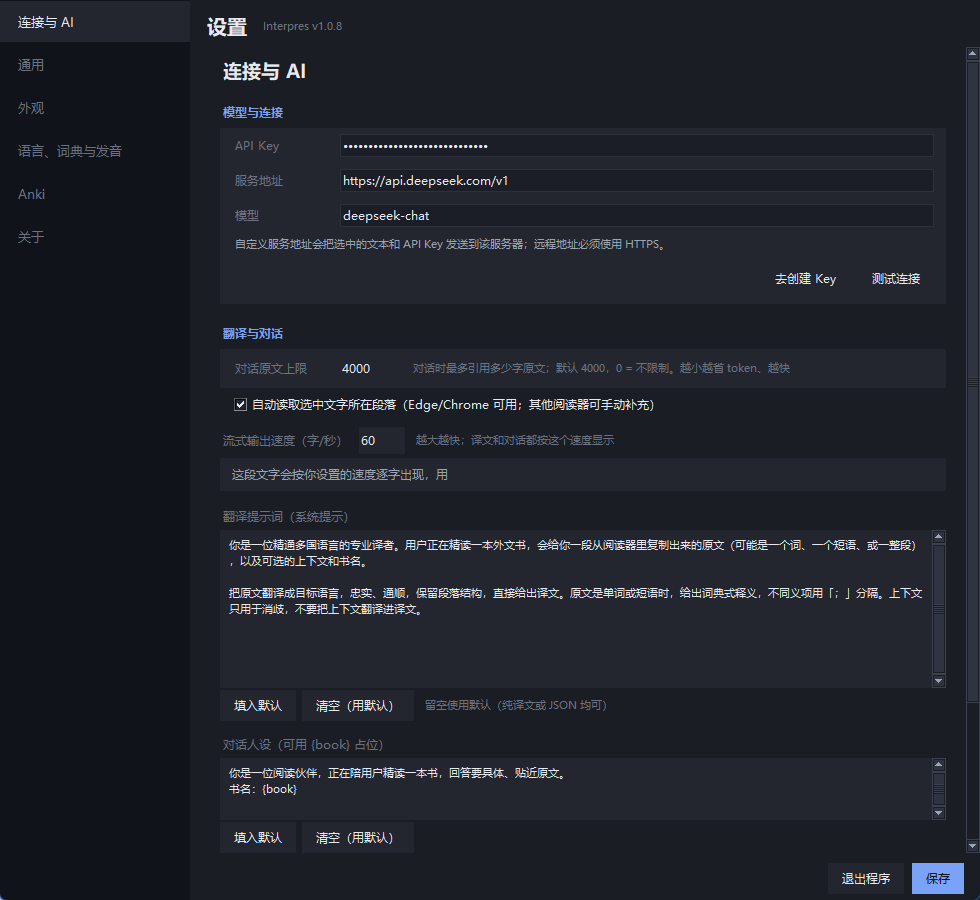
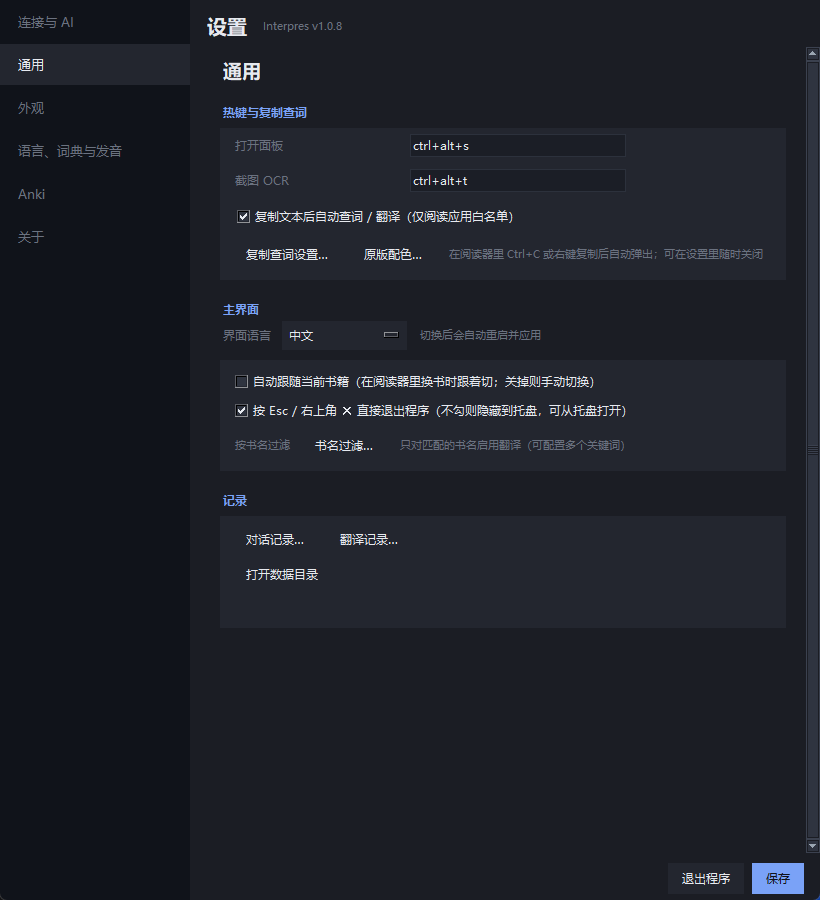
Refresh README and screenshots for 1.0.8
Document multi-dictionary formats, clipboard/OCR entry, lookup history, WebView2 requirements and current limitations; replace the panel/settings screenshots with the current UI.

diff --git a/README.md b/README.md
@@ -10,10 +10,9 @@ English | [中文说明](docs/README.zh-CN.md)
 
 - **Screenshot OCR** — press `Ctrl+Alt+T`, drag over text in an image or scanned PDF, and the recognized text goes through the same dictionary/translation path. Uses the local Windows OCR engine; screenshots are not uploaded.
 - **Clipboard lookup & translation** — copy text in a reader (`Ctrl+C` or right-click **Copy**) and Interpres decides between a local dictionary lookup and an AI translation. No floating selection button. Works in Chrome, Edge, Firefox, Calibre, SumatraPDF, Acrobat, Okular and Thorium; the reading-app whitelist and automatic trigger can be changed or switched off in Settings.
-- **Local MDX/MDD dictionaries** — bring your own Longman, Oxford, etc. Lookup is offline; fuzzy search handles accents and typos. The AI only fills context that the dictionary cannot.
-- **AI chat with context** — ask questions about the passage or the book; in
-  Edge/Chrome the paragraph around the selection is read automatically (can be
-  turned off in settings), and other readers can paste context manually.
+- **Local dictionaries** — MDX/MDD, unencrypted MDX 1.2, StarDict, DSL, Dictd and XDXF. Add several dictionaries per language, order them, mark a default, mute individual dictionaries or a whole group, and switch sources from the result bar. Lookup is offline; the AI only fills context the dictionary cannot.
+- **AI chat with context** — ask questions about a phrase or the current book; paste the paragraph manually to give the model context.
+- **Lookup history** — the clock icon in the Query tab keeps recent lookups with source preference, stars, language/book filters, stats and a configurable retention limit.
 - **Per-language vocabulary books** — words are grouped by language, and you can create your own word books (e.g. “English · IELTS”). Each book maps to its own Anki deck.
 - **Anki sync** — English uses the [Dict2Anki](https://github.com/ninja33/anki-dict-helper) note type by default; other languages use the bundled `Interpres` note type with structured senses, examples and audio.
 - **Languages are data, not code** — add any language (Italian, Japanese, Russian, …): code, display name, voice, deck. Dictionaries attach per language.
@@ -24,7 +23,8 @@ English | [中文说明](docs/README.zh-CN.md)
   the top/bottom edge to restore automatic height. Theme changes apply after a
   restart.
 - **History** — translation and conversation history per book, searchable and
-  exportable to Markdown, TSV or CSV.
+  exportable to Markdown, TSV or CSV; recent dictionary lookups have their own
+  clock-icon history in the Query tab.
 - **Vocabulary cards** — double-click a saved word to open its dictionary card
   (or the fields saved with it when no dictionary is configured). The word table
   can be searched by word or meaning and sorted by any column; the choice is
@@ -55,9 +55,11 @@ What you *do* get is the source, the build script, and a local-first workflow yo
 ## Requirements
 
 - Windows 10/11 (64-bit)
+- [Microsoft Edge WebView2 Runtime](https://developer.microsoft.com/microsoft-edge/webview2/) for the original dictionary layout (simple mode still works without it)
 - Your own DeepSeek API key (or any OpenAI-compatible endpoint)
 - Optional: [Anki](https://apps.ankiweb.net/) + [AnkiConnect](https://ankiweb.net/shared/info/2055492159) for card sync
-- Optional: MDX/MDD dictionaries (not bundled, see below)
+- Optional: MDX/MDD/StarDict/DSL/Dictd/XDXF dictionaries (not bundled, see below)
+- Optional: Windows OCR language feature for screenshot OCR (English/Chinese/French are common; install the language in Windows Settings)
 
 ## Quick start
 
@@ -65,6 +67,7 @@ What you *do* get is the source, the build script, and a local-first workflow yo
 2. Run `Interpres.exe` from the extracted folder. It is portable and keeps its data in your user profile; nothing is installed system-wide.
 3. Press `Ctrl+Alt+S` to open the panel, then click the gear (top right) to open settings; paste your API key and click **Test connection**.
 4. Copy a word or passage in a reader (`Ctrl+C` or right-click **Copy**).
+5. For an image or scanned PDF, press `Ctrl+Alt+T` and drag over the text.
 
 What changed in each version: see [CHANGELOG.md](CHANGELOG.md) or the Releases page.
 
@@ -126,13 +129,18 @@ are left untouched, and the dialog warns first.
 
 ## Dictionaries
 
-The app does not ship dictionaries. Put `.mdx`/`.mdd` files anywhere and add them in **Settings → Language & audio → Dictionary settings…**. The parser supports MDX 2.0; encrypted or MDX 1.2 files are not supported yet.
+The app does not ship dictionaries. Put dictionary files anywhere and add them in **Settings → Language & audio → Dictionary settings…**. Supported formats:
 
-The original-entry viewer keeps the dictionary's HTML and CSS, but removes
-dictionary-provided `<script>` tags, `on*` handlers, and `javascript:` links
-before rendering. Its own toolbar buttons are handled by the app's injected
-script; a dictionary that depends on custom JavaScript interactivity will look
-correct but not run its own scripts.
+- MDX/MDD 2.0
+- unencrypted MDX 1.2 (zlib and LZO blocks)
+- StarDict (`.ifo` / `.idx` / `.dict[.dz]`)
+- DSL (`.dsl`, `.dsl.dz`)
+- Dictd (`.index`)
+- XDXF (`.xdxf`, `.xdxf.dz`)
+
+Encrypted MDX files are not supported. A language can contain several dictionaries; the result bar lists every hit, and **Settings → Language & audio → Dictionary settings… → Groups** controls order, default, per-dictionary panel/popup visibility and whole-group mute. The Anki definition dictionary can be chosen separately per language.
+
+The original-entry viewer uses WebView2 and keeps the dictionary's own HTML/CSS/images/audio, but removes dictionary-provided `<script>` tags, `on*` handlers, and `javascript:` links before rendering. Its own toolbar buttons are handled by the app's injected script; a dictionary that depends on custom JavaScript interactivity will look correct but not run its own scripts.
 
 Dictionaries are copyrighted works; obtain and use them legally. Dictionary files are never sent anywhere — lookup is entirely local.
 
@@ -144,11 +152,17 @@ All settings and data live in `%USERPROFILE%\.reading-companion\`:
 
 ```
 config.json   settings (API key encrypted with Windows DPAPI)
-reading.db    vocabulary, conversations, translation cache
-app.log       logs (no selected text or document bodies)
+reading.db    vocabulary, conversations, translation cache, lookup history
+app.log       logs (no copied text, screenshots or document bodies)
 cache/        TTS audio cache
 exports/      CSV/TSV/Markdown exports
 ```
+
+Clipboard monitoring and screenshot OCR run locally. OCR screenshots are written
+to a temporary PNG only for the Windows OCR call, then deleted; recognized text
+is treated like copied text and is not uploaded by OCR itself. The clipboard
+trigger can be disabled in settings, and only whitelisted reading apps are
+monitored by default.
 
 Network access is limited to:
 
@@ -224,7 +238,7 @@ Some tests use a mock OpenAI/AnkiConnect server; Anki integration tests skip aut
 ```
 app.py                    entry point: Application shell, hotkeys, tray, main()
 app_panel.py              main-panel wiring: translate, ask, history windows
-app_flow.py               selection → bubble → details → dictionary flow
+app_flow.py               clipboard/OCR text → dictionary or translation flow
 app_media.py              save word, Anki push, pronunciation, term locking
 rc/service.py             Service (mixin composition): chat, history, status
 rc/service_base.py        annotated attributes shared by the service mixins
@@ -232,10 +246,16 @@ rc/service_translate.py   translation pipeline: chunking, cache, streaming
 rc/service_dict.py        dictionary lookup, morphology, entry HTML
 rc/service_vocab.py       vocabulary, languages, glossary
 rc/service_anki.py        Anki fields, templates, push
+rc/service_lookup_history.py  recent lookup records, stats and retention
 rc/service_common.py      chunking/cache helpers shared by the mixins
 rc/llm.py                 chat/translation client (streaming, JSON parsing)
 rc/rich.py                dictionary HTML → structured senses/examples
 rc/mdx.py                 pure-stdlib MDX/MDD reader
+rc/stardict.py            StarDict reader
+rc/dsl.py                 DSL / DSL.dz reader
+rc/dictd.py               Dictd reader
+rc/xdxf.py                XDXF / XDXF.dz reader
+rc/lzo.py                 LZO block decompressor for MDX 1.2
 rc/panel.py               main window shell: layout, books, scrolling, status
 rc/panel_translate.py     translate tab: streaming output, progress, errors
 rc/panel_dict.py          dictionary tab: lookup, senses, morphology, save
@@ -245,11 +265,23 @@ rc/vocab_panel.py         vocabulary tab shell: layout, search, refresh
 rc/vocab_table.py         word table: sorting, column widths, word cards
 rc/vocab_books.py         word-book list and book dialogs
 rc/vocab_actions.py       move/delete/export words, Anki sync
-rc/popup.py               selection popup shell: lifecycle, placement, wheel, resizing
-rc/popup_dict.py          dictionary card: senses, morphology, similar words
+rc/popup.py               popup shell: lifecycle, placement, wheel, resizing
+rc/popup_dict.py          dictionary card: senses, original view, inline WebView2
 rc/popup_chat.py          inline chat card: bubbles, input bar, streaming
 rc/popup_result.py        translation result card: terms, grammar, actions
 rc/popup_common.py        small popup helpers
+rc/dict_config.py         global dictionary library, groups, mute/default/Anki choice
+rc/dictmanager.py         dictionary loading, source selection, cache and idle release
+rc/dictionary.py          one dictionary: lookup, audio and raw entry
+rc/dict_forms.py          user word forms and conjugation tables
+rc/dict_view.py           original-entry HTML/CSS and CSP wrapper
+rc/dict_view_controller.py shared raw-word/URL helpers for panel and popup
+rc/webview_host.py        reusable WinForms WebView2 host
+rc/webview_window.py      standalone WebView2 entry window (legacy entry point)
+rc/clipboard_watch.py     whitelisted clipboard trigger
+rc/ocr.py                 Windows.Media.Ocr wrapper
+rc/ocr_picker.py          full-screen OCR region picker
+rc/lookup_history_ui.py   recent lookup window, filters, stars and stats
 rc/settings_ui.py         settings window shell: pages, tabs, shared widgets
 rc/settings_pages.py      settings window: one builder per page
 rc/settings_actions.py    settings window: save, test, dialogs, export
@@ -258,9 +290,7 @@ rc/config.py              settings file, DPAPI key storage, language table
 rc/server.py              loopback-only HTTP API (token, size limits)
 rc/netpolicy.py           endpoint validation: HTTPS or loopback only
 rc/capture.py             clipboard snapshot and selected-text capture
-rc/selection.py           mouse watcher for drag / double-click selection
-rc/dictionary.py          one MDX dictionary: lookup, audio, entry HTML
-rc/dictmanager.py         per-language dictionary registry and cache
+rc/selection.py           low-level foreground/selection helpers
 rc/anki.py                AnkiConnect client, note fields and templates
 rc/tts.py                 speech: SAPI, Edge or a custom command
 rc/theme.py               shared palette and font
@@ -268,17 +298,18 @@ rc/store.py               SQLite storage
 rc/i18n.py                zh/en display-layer translation
 # remaining dialog windows: book_settings, entry_settings, selection_settings,
 # dictionary_settings, dict_profiles, language_dialog, anki_card_settings,
-# wordbook_anki_settings, vocab_panel, translation_ui, chat_ui
+# wordbook_anki_settings, vocab_panel, translation_ui, chat_ui, user_lang_dialog
 ```
 
 ## Known limitations and rough edges
 
 - The code was generated by an AI agent and has not been reviewed by a professional developer. Treat it as an experimental personal project.
 - Testing was done on the author's own Windows machine and a handful of readers; other apps, DPI settings and Windows versions are not covered.
-- Text selection capture relies on clipboard simulation; some apps with unusual selection handling will not work.
+- Clipboard lookup only monitors the reading-app whitelist by default; copying from other apps does nothing. It can be disabled entirely in settings.
+- Screenshot OCR uses the Windows OCR language packs and currently captures the primary monitor region; recognition of handwriting, vertical text and very small/low-contrast text is imperfect.
+- The original dictionary layout needs the WebView2 Runtime; without it, the compact dictionary view still works.
+- Encrypted MDX files are not supported (unencrypted MDX 2.0 and 1.2 are).
 - The API key is encrypted with Windows DPAPI, so copying `config.json` to another machine or Windows user means the key has to be entered again (bookmarks and history copy fine).
-- Only one MDX dictionary per language is used for lookup; there is no merged multi-dictionary view.
-- MDX 1.2 and encrypted dictionaries are not supported.
 - Latin has no native TTS voice; the app falls back to Italian (Edge) or French (SAPI).
 - Edge TTS is an unofficial Microsoft endpoint and may change without notice.
 - Anki sync depends on AnkiConnect and a running Anki instance; there is no offline queue or retry.

diff --git a/docs/README.zh-CN.md b/docs/README.zh-CN.md
@@ -10,15 +10,17 @@
 
 - **复制查词/翻译**：在阅读器里复制文字（`Ctrl+C` 或右键复制），程序自动判断单词走词典、句子走翻译；不再有划词小按钮。支持 Chrome、Edge、Firefox、Calibre、SumatraPDF、Acrobat、Okular、Thorium；白名单和自动触发可在设置里关闭。
 - **截图 OCR**：按 `Ctrl+Alt+T` 框选图片或扫描版 PDF 里的文字，识别后走同样的查词/翻译流程；使用 Windows 本地 OCR，不上传截图。
-- **本地 MDX/MDD 词典**：自己准备朗文、牛津等词典；查词完全离线，模糊匹配能处理重音和拼写错误。AI 只补词典没有的上下文。
-- **结合上下文的 AI 对话**：可以问当前段落或整本书的问题；在 Edge/Chrome 里会自动读取选中文字所在段落（设置里可关），其他阅读器可以手动补充上下文。
+- **本地多词典**：支持 MDX/MDD、未加密 MDX 1.2、StarDict、DSL、Dictd、XDXF；每种语言可挂多本，来源栏并列命中的词典，可排序、设默认、单独静音或整组静音。
+- **原版排版**：面板和浮窗都可用 WebView2 显示词典自己的 HTML/CSS/图片/音频，浮窗内长词条可滚动。
+- **AI 对话**：可以围绕短语或当前书提问；需要段落上下文时可手动粘贴。
+- **查词历史**：查询页时钟图标记录最近查词，支持来源优先、星标、语言/书籍筛选、统计和保留上限。
 - **按语言分本的生词本**：单词按语言分组，也可以自建词本（例如「英语 · 雅思」）。每本词本对应独立的 Anki 牌组。
-- **Anki 同步**：英语默认使用 [Dict2Anki](https://github.com/ninja33/anki-dict-helper) 笔记类型；其他语言使用内置的 `Interpres` 笔记类型，包含结构化义项、成对例句和音频。
+- **Anki 同步**：英语默认使用 [Dict2Anki](https://github.com/ninja33/anki-dict-helper) 笔记类型；其他语言使用内置的 `Interpres` 笔记类型，包含结构化义项、成对例句和音频；每种语言可单独选择 Anki 释义词典。
 - **语言是数据，不是代码**：可以添加任意语言（意大利语、日语、俄语……），填代码、显示名、音色和牌组即可；词典按语言挂载。
 - **发音**：Windows SAPI/OneCore、Edge 在线神经音色，或自定义命令（Piper、eSpeak、自己的脚本）。
 - **流式显示**：译文和对话按可配置的字速逐字显示。
 - **外观**：深色/浅色主题、强调色预设、浮窗宽度/高度/透明度、主界面透明度；浮窗可拖任意边/角缩放，双击上/下边缘恢复自动高度；主题修改重启后生效。
-- **记录**：翻译记录和对话记录按书分组，可搜索，可导出 Markdown / TSV / CSV。
+- **记录**：翻译记录和对话记录按书分组，可搜索，可导出 Markdown / TSV / CSV；查词页的时钟图标另有最近查词、来源优先、星标、筛选和保留上限。
 - **生词卡片**：在生词本里双击一个词，弹出它的词典卡片；没配词典时显示保存的释义和例句。
   单词表可按单词或释义搜索，点列头排序（单词/音标/释义/来源/时间/同步），选择会被记住。
 - **本地 HTTP 接口**：仅回环、带 token，方便自己写脚本调用（翻译、生词、术语、发音、Anki 推送）。
@@ -31,9 +33,11 @@
 ## 环境
 
 - Windows 10/11 64 位
+- [Microsoft Edge WebView2 Runtime](https://developer.microsoft.com/microsoft-edge/webview2/)：原版排版需要；没有时仍可用精简视图
 - 自己的 DeepSeek API Key（或任意 OpenAI 兼容接口）
 - 可选：[Anki](https://apps.ankiweb.net/) + [AnkiConnect](https://ankiweb.net/shared/info/2055492159)，用于同步卡片
-- 可选：MDX/MDD 词典（不随软件分发，见下文）
+- 可选：MDX/MDD/StarDict/DSL/Dictd/XDXF 词典（不随软件分发，见下文）
+- 可选：截图 OCR 需要 Windows 对应语言的 OCR 可选功能（英语/中文/法语通常已装）
 
 ## 这个项目没有什么
 
@@ -56,6 +60,7 @@
 2. 进入解压后的文件夹，运行 `Interpres.exe`。它是绿色版，数据保存在用户目录，不往系统里安装东西。
 3. 按 `Ctrl+Alt+S` 打开主面板，点右上角齿轮进入设置，填入 API Key，点 **测试连接**。
 4. 在阅读器里复制一个单词或一段话（`Ctrl+C` 或右键复制）。
+5. 图片或扫描版 PDF：按 `Ctrl+Alt+T` 框选文字。
 
 每个版本改了什么：见 [`CHANGELOG.md`](../CHANGELOG.md) 或 Releases 页面。
 
@@ -105,13 +110,22 @@
 
 ## 词典
 
-软件不带词典。把 `.mdx`/`.mdd` 放到任意位置，在 **设置 → 语言、词典与发音 → 词典设置** 里添加。解析器支持 MDX 2.0；加密词典和 MDX 1.2 暂不支持。
+软件不带词典。把词典文件放到任意位置，在 **设置 → 语言、词典与发音 → 词典设置** 里添加。支持：
+
+- MDX/MDD 2.0
+- 未加密 MDX 1.2（zlib / LZO）
+- StarDict（`.ifo` / `.idx` / `.dict[.dz]`）
+- DSL（`.dsl` / `.dsl.dz`）
+- Dictd（`.index`）
+- XDXF（`.xdxf` / `.xdxf.dz`）
+
+加密 MDX 暂不支持。一种语言可以挂多本词典；来源栏会列出所有命中，**设置 → 语言、词典与发音 → 词典设置… → 查词组** 里可以调顺序、设默认、控制面板/弹窗单独可见，或整组静音。Anki 释义词典也可以按语言单独选择。
 
 词典是有版权的作品，请合法获取和使用。词典文件不会被发送到任何地方，查询完全在本地进行。
 
 如果你的词典 HTML 结构特殊，不用改代码，可以在 **设置 → 语言、词典与发音 → 词典设置… → 词典映射…** 里配置。字段格式和朗文示例见 [DICT_PROFILES.md](DICT_PROFILES.md)。
 
-词典没收录的变形，可以在 **设置 → 语言与发音 → 词形与变位表…** 里补“变形 → 原形”或导入变位表；格式和示例见 [USER_LANG_DATA.md](USER_LANG_DATA.md)。
+词典没收录的变形，可以在 **设置 → 语言、词典与发音 → 词形与变位表…** 里补“变形 → 原形”或导入变位表；格式和示例见 [USER_LANG_DATA.md](USER_LANG_DATA.md)。
 
 ## 数据与隐私
 
@@ -119,11 +133,13 @@
 
 ```
 config.json   设置（API Key 用 Windows DPAPI 加密，仅本地）
-reading.db    生词、对话、翻译缓存
-app.log       日志（不记录选中文本正文）
+reading.db    生词、对话、翻译缓存、查词历史
+app.log       日志（不记录复制文本、截图或书籍正文）
 cache/        TTS 音频缓存
 exports/      CSV/TSV/Markdown 导出
 ```
+
+剪贴板监听和截图 OCR 都在本地运行。OCR 截图只写成临时 PNG 供 Windows OCR 读取，识别后立即删除；识别出的文字按普通复制文本处理，不会由 OCR 上传。剪贴板触发可在设置里关闭，默认只监听阅读应用白名单。
 
 联网只发生在：
 
@@ -190,7 +206,7 @@ ruff check .
 ```
 app.py                    入口：应用外壳、热键、托盘、main()
 app_panel.py              主面板接线：翻译、提问、历史窗口
-app_flow.py               选区 → 气泡 → 详情 → 查词
+app_flow.py               剪贴板/OCR 文字 → 查词或翻译
 app_media.py              收藏、Anki 推送、发音、术语锁定
 rc/service.py             Service（mixin 组合）：对话、历史、状态
 rc/service_base.py        mixin 共享属性的注解声明
@@ -198,10 +214,16 @@ rc/service_translate.py   翻译流程：分块、缓存、流式
 rc/service_dict.py        查词、词形、词条 HTML
 rc/service_vocab.py       生词本、语言、术语表
 rc/service_anki.py        Anki 字段、模板、推送
+rc/service_lookup_history.py 查词历史、统计与保留上限
 rc/service_common.py      分块/缓存小工具
 rc/llm.py                 翻译/对话客户端（流式、JSON 解析）
 rc/rich.py                词典 HTML → 结构化义项/例句
 rc/mdx.py                 纯标准库 MDX/MDD 读取
+rc/stardict.py            StarDict 读取
+rc/dsl.py                 DSL / DSL.dz 读取
+rc/dictd.py               Dictd 读取
+rc/xdxf.py                XDXF / XDXF.dz 读取
+rc/lzo.py                 MDX 1.2 的 LZO 解压
 rc/panel.py               主窗口外壳：布局、书籍、滚动、状态
 rc/panel_translate.py     翻译页：流式输出、进度、错误
 rc/panel_dict.py          查词页：查询、义项、词形、收藏
@@ -211,11 +233,23 @@ rc/vocab_panel.py         生词本外壳：布局、搜索、刷新
 rc/vocab_table.py         单词表：排序、列宽、双击词卡
 rc/vocab_books.py         词本列表与新建/改名/删除对话框
 rc/vocab_actions.py       移动/删除/导出单词、Anki 同步
-rc/popup.py               划词弹窗外壳：生命周期、定位、滚轮、缩放
-rc/popup_dict.py          词典卡片：义项、词形、近义词
+rc/popup.py               弹窗外壳：生命周期、定位、滚轮、缩放
+rc/popup_dict.py          词典卡片：义项、原版 WebView2、长词条滚动
 rc/popup_chat.py          内联对话卡片：气泡、输入栏、流式
 rc/popup_result.py        翻译结果卡片：生词、语法、操作
 rc/popup_common.py        弹窗小工具
+rc/dict_config.py         全局词典库、分组、静音、默认、Anki 词典
+rc/dictmanager.py         词典加载、来源选择、缓存和空闲释放
+rc/dictionary.py          单本词典：查询、音频、词条 HTML
+rc/dict_forms.py          用户词形与变位表
+rc/dict_view.py           原版词条 HTML/CSS 与 CSP 包装
+rc/dict_view_controller.py 面板/浮窗共享的词头和 URL 工具
+rc/webview_host.py        WinForms WebView2 宿主
+rc/webview_window.py      独立 WebView2 原版窗口（旧入口）
+rc/clipboard_watch.py     白名单剪贴板监听
+rc/ocr.py                 Windows.Media.Ocr 封装
+rc/ocr_picker.py          全屏 OCR 框选
+rc/lookup_history_ui.py   查词历史窗口、筛选、星标和统计
 rc/settings_ui.py         设置窗口外壳：分页、标签、共享控件
 rc/settings_pages.py      设置窗口：每页一个构建函数
 rc/settings_actions.py    设置窗口：保存、测试、对话框、导出
@@ -224,9 +258,7 @@ rc/config.py              配置文件、DPAPI 密钥存储、语言表
 rc/server.py              仅回环的本地 HTTP API（token、大小限制）
 rc/netpolicy.py           服务地址校验：只允许 HTTPS 或回环
 rc/capture.py             剪贴板快照与选中文字捕获
-rc/selection.py           拖选/双击选词的鼠标监听
-rc/dictionary.py          单本 MDX 词典：查询、音频、词条 HTML
-rc/dictmanager.py         按语言管理词典与缓存
+rc/selection.py           前台/选区底层辅助函数
 rc/anki.py                AnkiConnect 客户端、字段与模板
 rc/tts.py                 发音：SAPI、Edge 或自定义命令
 rc/theme.py               共享配色与字体
@@ -234,7 +266,7 @@ rc/store.py               SQLite 存储
 rc/i18n.py                中英文显示层翻译
 # 其余对话框/子窗口：book_settings、entry_settings、selection_settings、
 # dictionary_settings、dict_profiles、language_dialog、anki_card_settings、
-# wordbook_anki_settings、vocab_panel、translation_ui、chat_ui
+# wordbook_anki_settings、vocab_panel、translation_ui、chat_ui、user_lang_dialog
 ```
 
 更完整的变更记录见 [`CHANGELOG.md`](../CHANGELOG.md)。
@@ -243,10 +275,11 @@ rc/i18n.py                中英文显示层翻译
 
 - 代码由 AI 生成，没有经过专业程序员审查；请把它当作实验性个人项目。
 - 只在作者自己的 Windows 机器和少数几个阅读器上测试过，其他软件、缩放比例和系统版本没有覆盖。
-- 划词依赖剪贴板模拟，少数选择处理特殊的程序可能不工作。
+- 复制查词默认只监听阅读应用白名单，其他程序里复制不会触发；可以在设置里关闭。
+- 截图 OCR 依赖 Windows OCR 语言包，目前按主屏区域框选；手写、竖排、特别小或对比度低的文字识别率有限。
+- 原版排版需要 WebView2 Runtime；没有它时仍可使用精简词典视图。
+- 不支持加密 MDX（未加密 MDX 2.0 / 1.2 支持）。
 - API Key 用 Windows DPAPI 加密，换电脑或换 Windows 用户后需要重新填一次（生词本和历史记录可以直接拷）。
-- 每种语言只使用一本 MDX 词典，没有多词典合并显示。
-- 不支持 MDX 1.2 和加密词典。
 - 拉丁语没有原生 TTS 音色，会回退到意大利语（Edge）或法语（SAPI）。
 - Edge TTS 是非官方 Microsoft 接口，可能随时变化。
 - Anki 同步依赖 AnkiConnect 和正在运行的 Anki；没有离线队列或失败重试。
